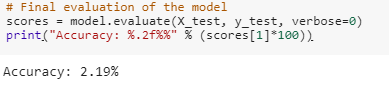
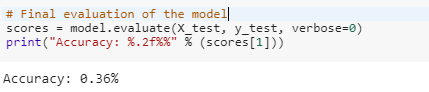
Commit2

Changed region(s): [[0.0, 0.0222, 0.9563, 0.5333], [0.0, 0.7333, 0.3085, 0.9333], [0.1851, 0.7333, 0.2159, 0.7556]]

diff --git a/Lab 2/Source Code/Image Classification/lab2_6.py b/Lab 2/Source Code/Image Classification/lab2_6.py
@@ -72,4 +72,4 @@ model.fit(X_train, y_train, validation_data=(X_test, y_test), epochs=epochs, bat
 
 # Final evaluation of the model
 scores = model.evaluate(X_test, y_test, verbose=0)
-print("Accuracy: %.2f%%" % (scores[1]*100))
+print("Accuracy: %.2f%%" % (scores[1]))
